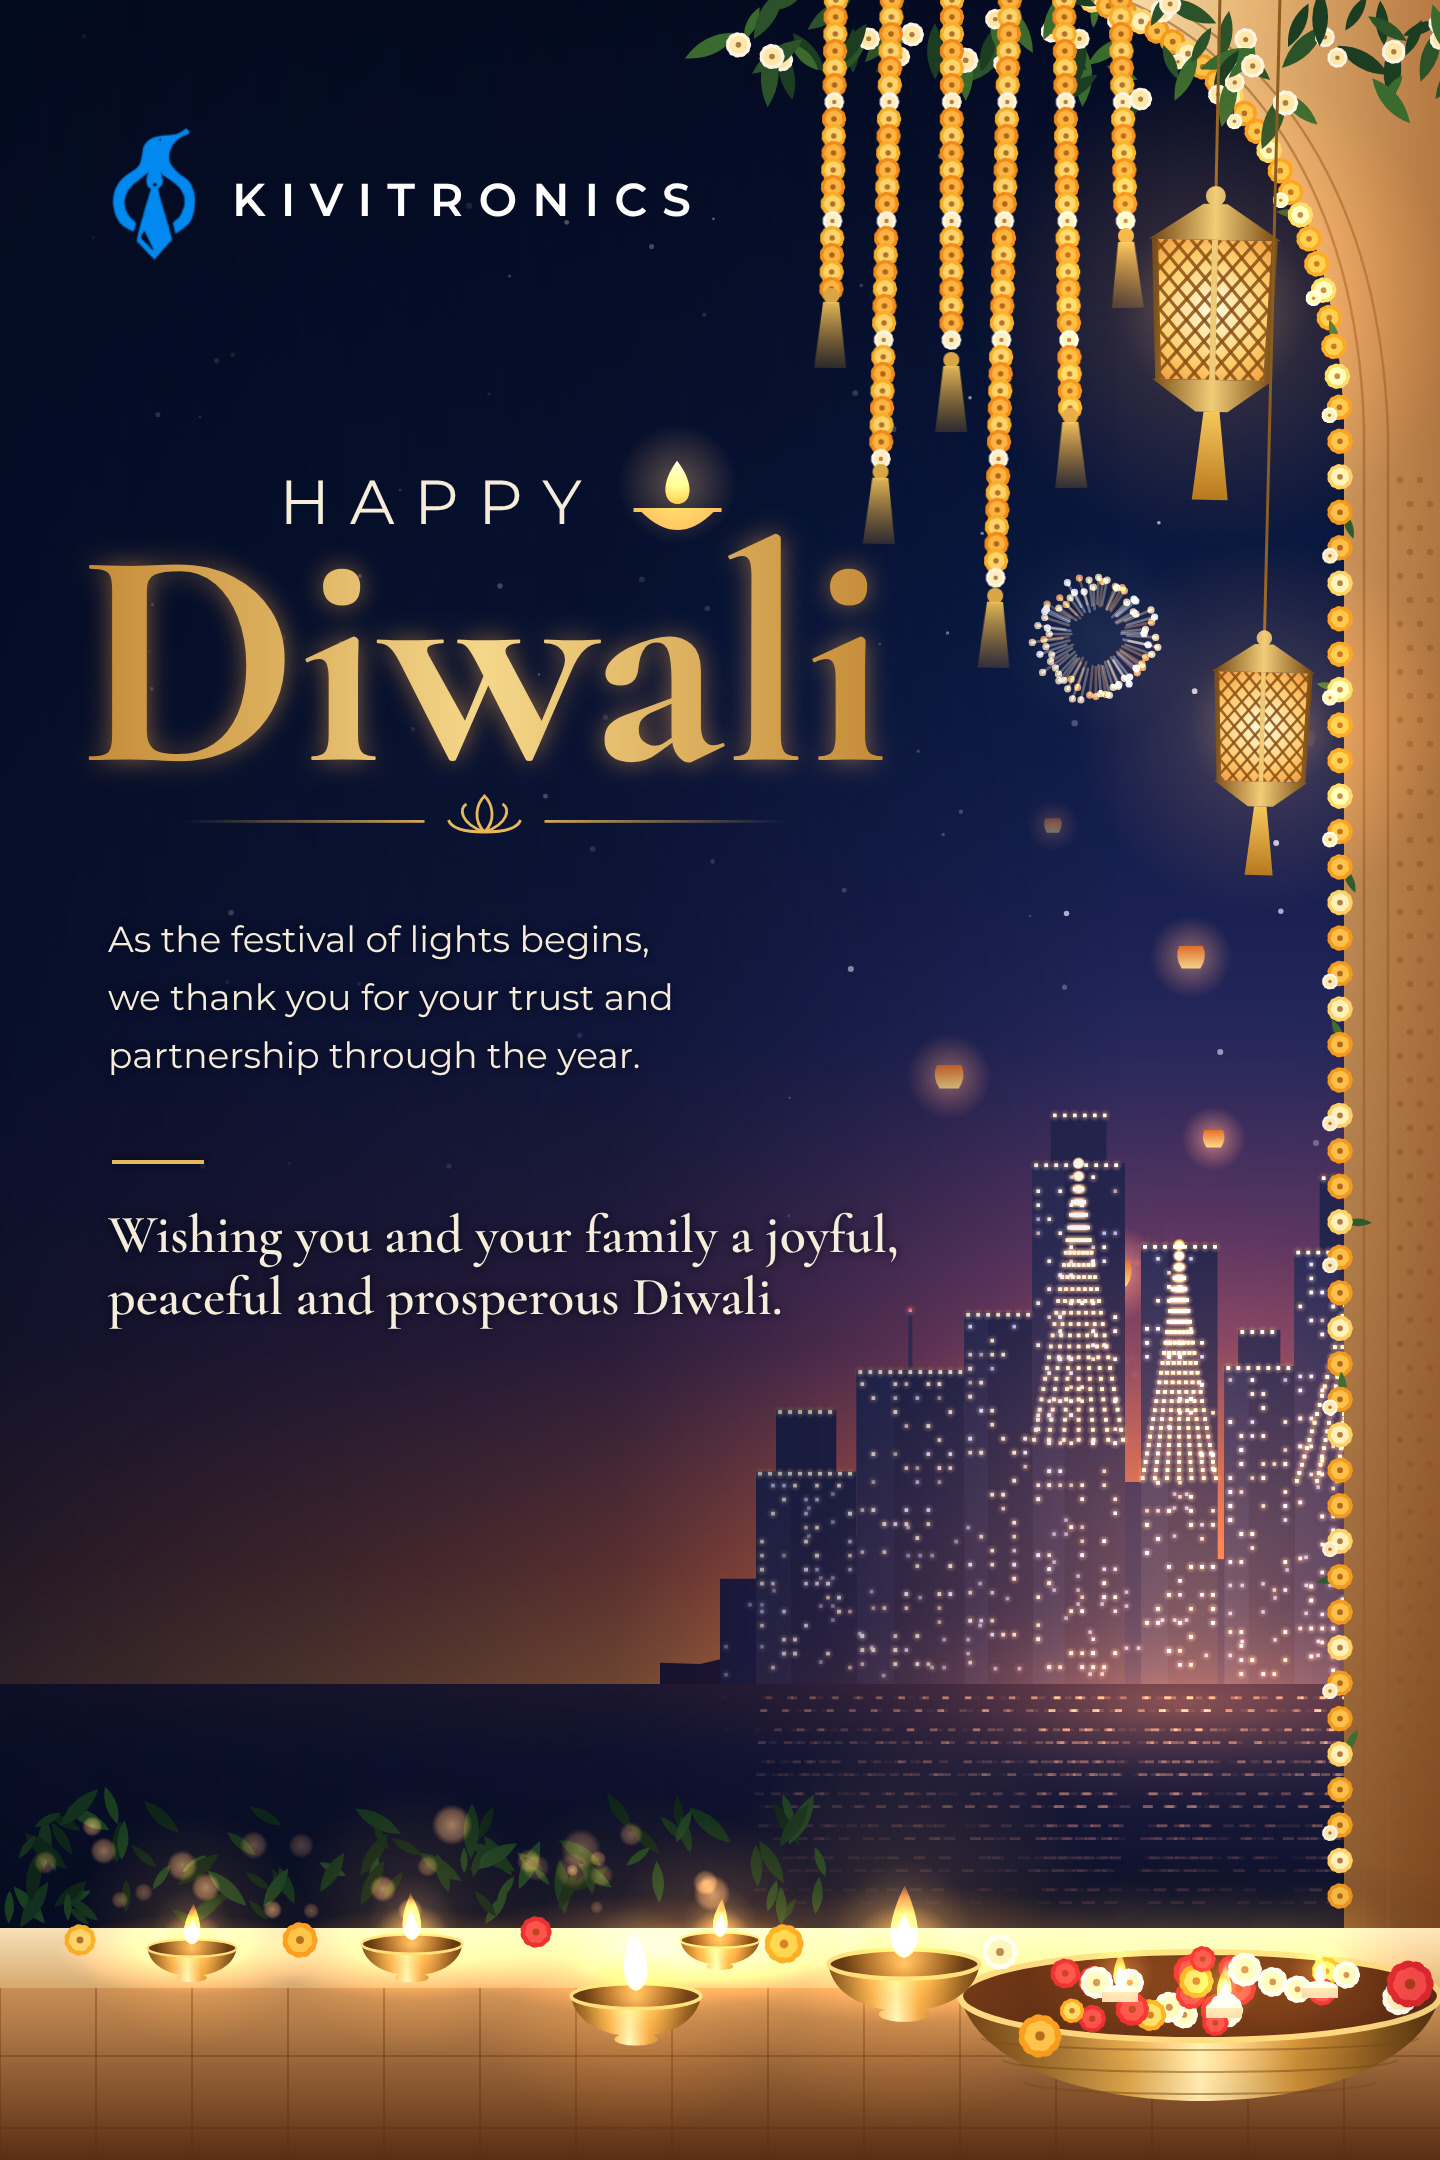
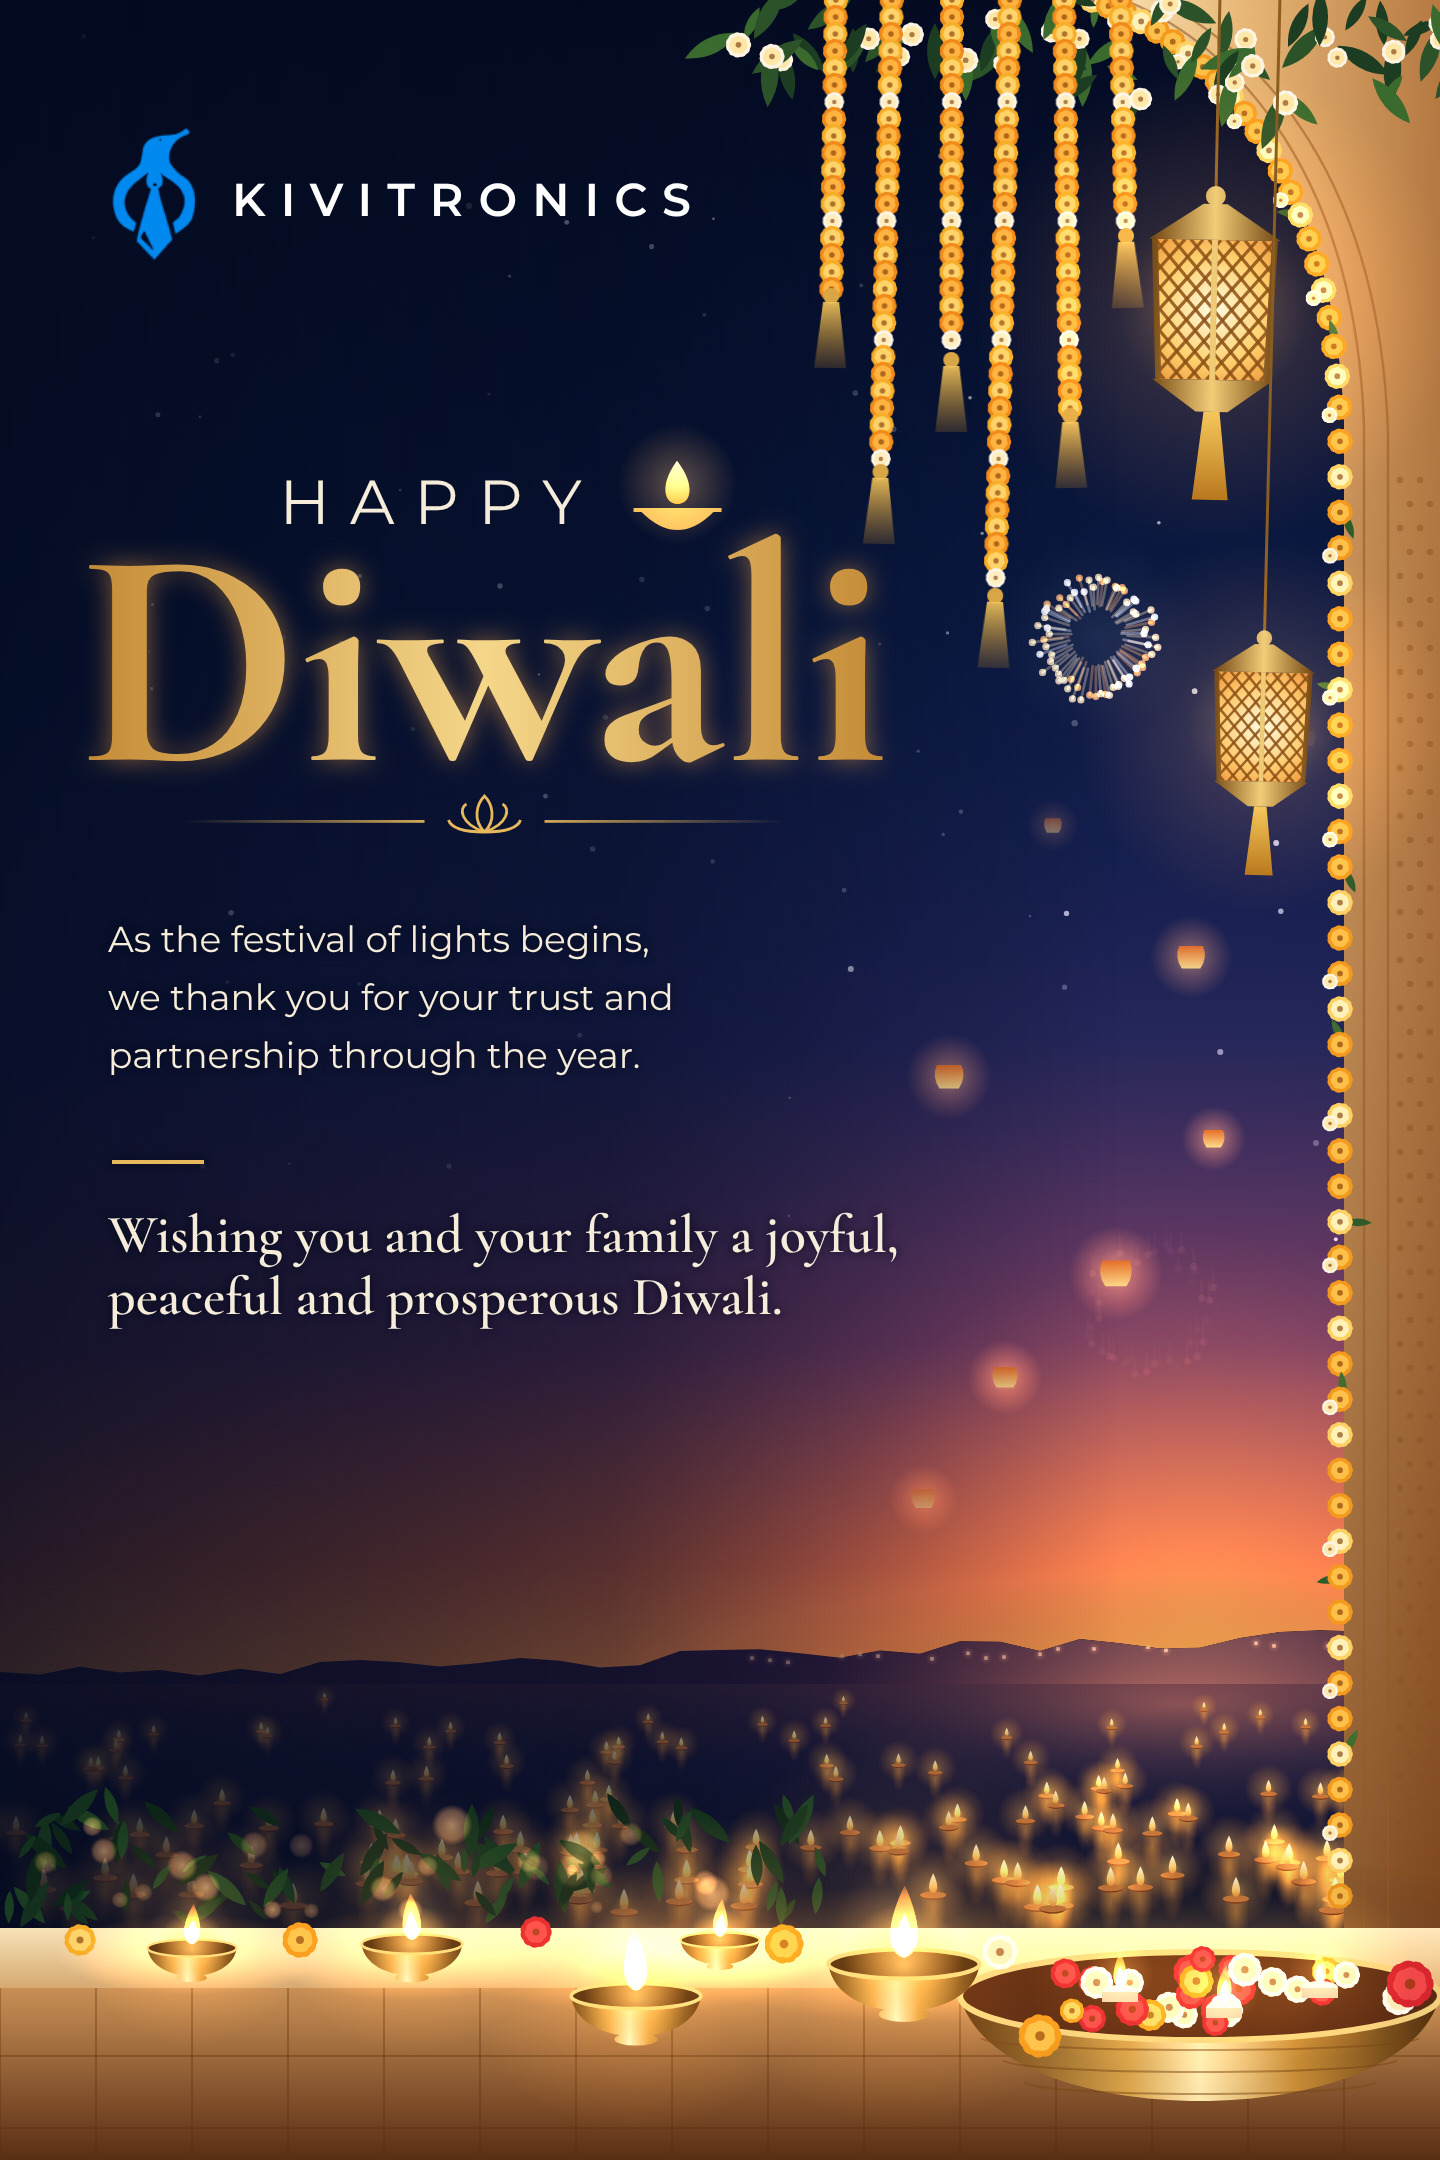
Final static poster: remove buildings, use floating-diya lake
Claude-Session: https://claude.ai/code/session_01KK6EcFhoLQivjsFoKVDcmb

Changed region(s): [[0.0, 0.4963, 0.9375, 0.8995], [0.1875, 0.8685, 0.2188, 0.8995]]

diff --git a/marketing/diwali-2026/kivitronics-diwali-poster.html b/marketing/diwali-2026/kivitronics-diwali-poster.html
@@ -117,7 +117,7 @@ canvas { height: min(1080px, 100vh - 32px); width: auto; max-width: calc(100vw -
 
   // ================= SKYLINE + WATER =================
   const reflectCols = [];
-  const SCENE = new URLSearchParams(location.search).get('scene') || 'city';
+  const SCENE = new URLSearchParams(location.search).get('scene') || 'lamps';
   const skylineLayer = () => layer(g => {
     const r = rng(42);
     // distant shore
